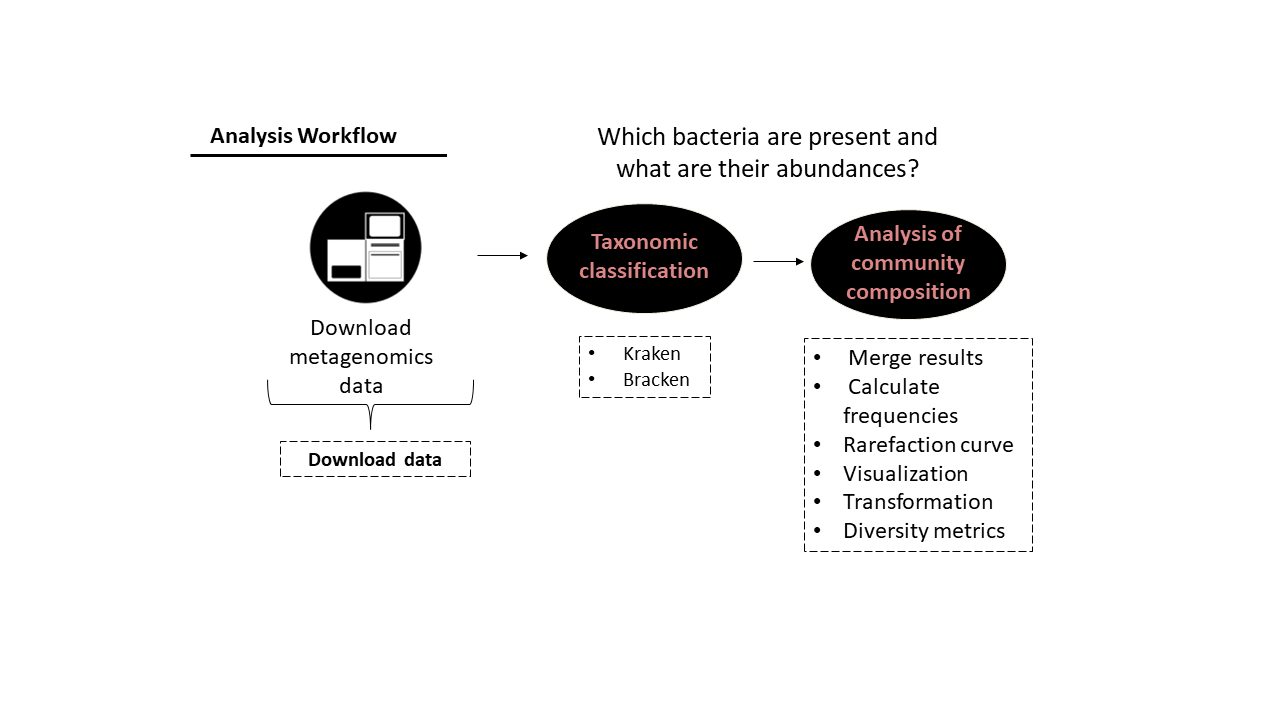
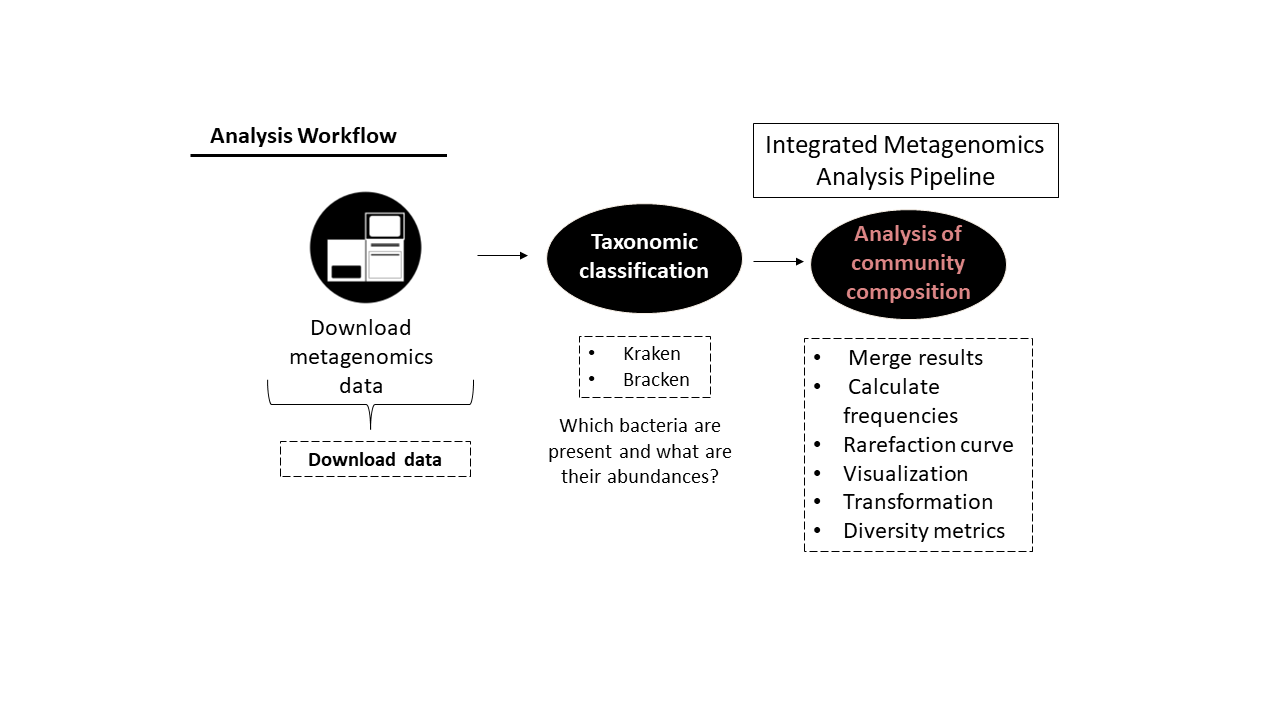
readme

Changed region(s): [[0.4688, 0.1833, 0.8125, 0.275], [0.4375, 0.5806, 0.5625, 0.6722], [0.4375, 0.3056, 0.5625, 0.3972]]

diff --git a/README.md b/README.md
@@ -9,10 +9,11 @@ This is a tool that integrates all steps required for taxonomic analysis of meta
 
 However, the process of analyzing taxonomic data involves multiple complex and time-consuming steps and there is currently no standard protocol. **The Integrated Metagenomics Analysis Pipeline** is designed to streamline downstream analysis of taxonomy offering a solution for comprehensive metagenomic analysis. 
 
-**Note**: there is a section at the end that explains in detail how to get taxonomy tables from metagenomic data. It includes all steps from downloading publicaly available data from SRA & classifying reads into taxonomic profiles 
+**Note**: There is a section at the end that explains in detail how to get taxonomy tables from metagenomic data. It includes all steps from downloading publicly available data from SRA & classifying reads into taxonomic profiles.
 
 ## Up-stream steps
-### (1) Generating Data
+### (1) Generating Data: Produce Your Own Data/Download Data
+
 ![Generating Data](/generating_data.PNG)
 
 To generate metagenomic data:
@@ -24,14 +25,29 @@ To generate metagenomic data:
 
 ![Workflow](workflow.png)
 
-### (2)  Download Data/Produce Your Own Data
 
-### (3) Taxonomic Classification: What Microorganisms Are Present?
+### (2) Taxonomic Classification: What Microorganisms Are Present?
+Once we have the sequences, the goal is to identify the microorganisms present in the community and determine the proportions of each organism within the sample, approximating their abundances in the community. 
+
+To determine the species present the [Kraken algorithm](https://ccb.jhu.edu/software/kraken/MANUAL.html) is a highly accurate and efficient tool for assigning taxonomic labels to metagenomic DNA sequences. 
+
+a. Taxonomic classification using [Kraken algorithm](https://ccb.jhu.edu/software/kraken/MANUAL.html)
+
+**Kraken Output**: Kraken generates a detailed report of the taxonomic composition of the sample by counting the number of reads that match each species in a provided database. The main output is a table/matrix for each sample, listing the number of reads corresponding to each identified microorganism.
+![kraken output](kraken_output.png)
+View a complete kraken output file: [sample.k2report](SRR14291145.k2report)
+
+b. Re-estimate read counts using [Bracken algorithm](https://github.com/jenniferlu717/Bracken) 
+
+Using the **sample.k2report output from Kraken**, [Bracken algorithm](https://github.com/jenniferlu717/Bracken), which uses Bayes' theorem to re-estimate the number of reads that match a species. This step is necessary because some reads will match more than one species.
+![braken output](bracken_output.png)
+View complete braken output file: [sample.bracken](SRR14291145.bracken)
+
 
 ## Down-stream steps
 ## **Integrated Metagenomics Analysis Pipeline**
 
-### (4) Analysis of Taxonomic Results 
+### Analysis of Taxonomic Results 
 
 Once the taxonomic classification is complete, we will perform a comprehensive analysis of the results using Python based tool. This analysis includes:
 
@@ -71,36 +87,7 @@ pytest
 # Instructions for up-stream steps: 
 
 
-## Steps previous to the utilization of this pipeline: 
-
-For a given project: 
-###  (1) Download data (optional) 
- **Download Data/Produce Your Own Data**
-
-Once we have the sequences, the goal is to identify the microorganisms present in the community and determine the proportions of each organism within the sample, approximating their abundances in the community. 
-
-a. Download accesion list from [SRA Run Selector](https://0-www-ncbi-nlm-nih-gov.brum.beds.ac.uk/Traces/study/) 
-b. Download all genomic files of project from [SRA](https://www.ncbi.nlm.nih.gov/sra)
-
-### (2) Taxonomic Classification: What Microorganisms Are Present?
-
-To determine the species present the [Kraken algorithm](https://ccb.jhu.edu/software/kraken/MANUAL.html) is a highly accurate and efficient tool for assigning taxonomic labels to metagenomic DNA sequences. 
-
-a. Taxonomic classification using [Kraken algorithm](https://ccb.jhu.edu/software/kraken/MANUAL.html)
-
-**Kraken Output**: Kraken generates a detailed report of the taxonomic composition of the sample by counting the number of reads that match each species in a provided database. The main output is a table/matrix for each sample, listing the number of reads corresponding to each identified microorganism.
-![kraken output](kraken_output.png)
-View a complete kraken output file: [sample.k2report](SRR14291145.k2report)
-
-b. Re-estimate read counts using [Bracken algorithm](https://github.com/jenniferlu717/Bracken) 
-
-Using the **sample.k2report output from Kraken**, [Bracken algorithm](https://github.com/jenniferlu717/Bracken), which uses Bayes' theorem to re-estimate the number of reads that match a species. This step is necessary because some reads will match more than one species.
-![braken output](bracken_output.png)
-View complete braken output file: [sample.bracken](SRR14291145.bracken)
-
-
-## Detailed explanation
-
+## Detailed instructions for steps previous to the utilization of this pipeline: 
 ### Example of Running instructions: 
 
 To examplify we will run all the steps for the following project: 
